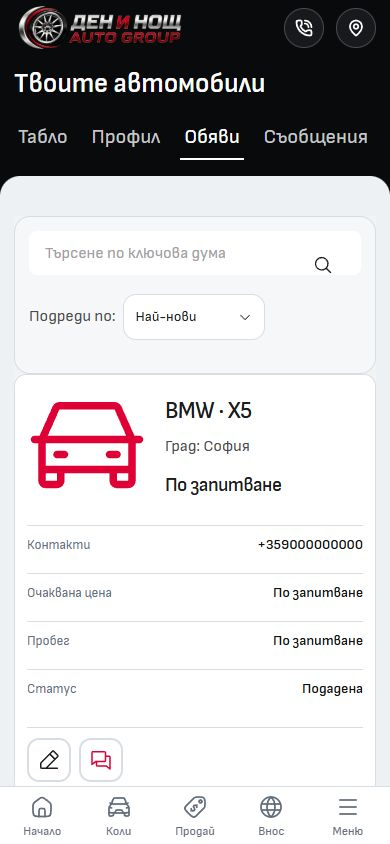
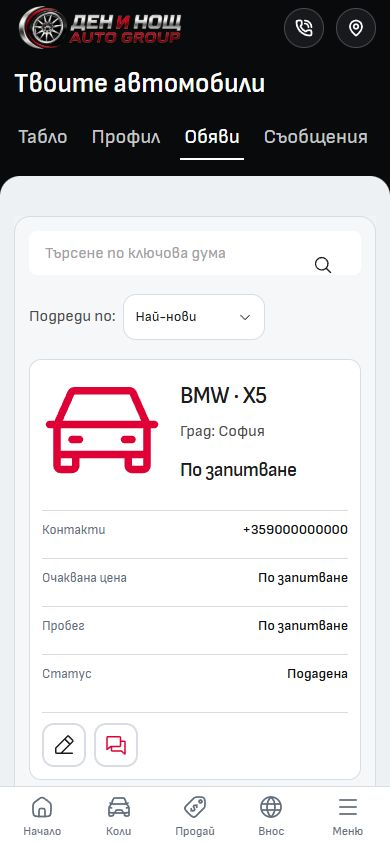
Keep Import account markup inside hydration boundaries

diff --git a/templates/import/src/lib/components/layout/AuxeroDashboardSlotShell.svelte b/templates/import/src/lib/components/layout/AuxeroDashboardSlotShell.svelte
@@ -52,7 +52,6 @@
 		{ href: '/account/messages', label: english ? 'Messages' : 'Съобщения' }
 	]);
 	const containerOpenTag = '<div class="dashboard-container">';
-	const contentOpenTag = '<div class="dashboard-content">';
 	const innerOpenTag = '<div class="dashboard-content--inner">';
 	const detailsOpenTag = '<div class="dashboard-content--details">';
 
@@ -61,12 +60,14 @@
 
 		if (containerStart < 0) return undefined;
 
-		const contentStart = beforeHtml.indexOf(contentOpenTag, containerStart);
-
-		if (contentStart < 0) return undefined;
+		const contentMatch = beforeHtml
+			.slice(containerStart)
+			.match(/<div class="(dashboard-content(?: [^"]*)?)">/);
+		if (!contentMatch || contentMatch.index === undefined) return undefined;
+		const contentStart = containerStart + contentMatch.index;
 
 		const innerStart = beforeHtml.indexOf(innerOpenTag, contentStart);
-		const headerStart = contentStart + contentOpenTag.length;
+		const headerStart = contentStart + contentMatch[0].length;
 		const headerEnd = innerStart < 0 ? beforeHtml.length : innerStart;
 		const detailsStart = innerStart < 0 ? -1 : beforeHtml.indexOf(detailsOpenTag, innerStart);
 		const innerPrefixStart = innerStart < 0 ? -1 : innerStart + innerOpenTag.length;
@@ -74,14 +75,22 @@
 		const detailsPrefixStart = detailsStart < 0 ? -1 : detailsStart + detailsOpenTag.length;
 		const innerPrefixHtml =
 			innerPrefixStart < 0 ? '' : beforeHtml.slice(innerPrefixStart, innerPrefixEnd);
+		const detailsPrefixHtml =
+			preserveDetailsPrefix && detailsPrefixStart >= 0 ? beforeHtml.slice(detailsPrefixStart) : '';
+		const detailsBox = detailsPrefixHtml.match(/<div class="([^"]*\bdashboard-box\b[^"]*)">/);
+		const detailsBoxStart = detailsBox?.index ?? -1;
+		const closingDivCount = detailsBox ? 5 : 4;
 
 		return {
-			afterHtml: afterHtml.replace(/^(?:\s*<\/div>){1,4}/, ''),
+			afterHtml: afterHtml.replace(new RegExp(`^(?:\\s*</div>){1,${closingDivCount}}`), ''),
 			beforeHtml: beforeHtml.slice(0, containerStart),
-			detailsPrefixHtml:
-				preserveDetailsPrefix && detailsPrefixStart >= 0
-					? beforeHtml.slice(detailsPrefixStart)
-					: '',
+			contentClass: contentMatch[1],
+			detailsPrefixHtml,
+			detailsBoxClass: detailsBox?.[1],
+			detailsBeforeBox: detailsPrefixHtml.slice(0, detailsBoxStart),
+			detailsBoxPrefix: detailsBox
+				? detailsPrefixHtml.slice(detailsBoxStart + detailsBox[0].length)
+				: '',
 			headerHtml: beforeHtml.slice(headerStart, headerEnd),
 			hasInnerPrefix: innerPrefixHtml.trim().length > 0,
 			innerPrefixHtml,
@@ -111,7 +120,7 @@
 			<div class="dashboard-container">
 				<!-- eslint-disable-next-line svelte/no-at-html-tags -->
 				{@html dashboardShell.sidebarHtml}
-				<div class="dashboard-content">
+				<div class={dashboardShell.contentClass}>
 					<!-- eslint-disable-next-line svelte/no-at-html-tags -->
 					{@html dashboardShell.headerHtml}
 					<div class="dashboard-content--inner">
@@ -122,9 +131,20 @@
 							<p class="h3 mb-30">{title}</p>
 						{/if}
 						<div class="dashboard-content--details" data-daynight-dashboard>
-							<!-- eslint-disable-next-line svelte/no-at-html-tags -->
-							{@html dashboardShell.detailsPrefixHtml}
-							{@render children()}
+							{#if dashboardShell.detailsBoxClass}
+								<!-- Keep the legacy card wrapper inside Svelte's hydration markers. -->
+								<!-- eslint-disable-next-line svelte/no-at-html-tags -->
+								{@html dashboardShell.detailsBeforeBox}
+								<div class={dashboardShell.detailsBoxClass}>
+									<!-- eslint-disable-next-line svelte/no-at-html-tags -->
+									{@html dashboardShell.detailsBoxPrefix}
+									{@render children()}
+								</div>
+							{:else}
+								<!-- eslint-disable-next-line svelte/no-at-html-tags -->
+								{@html dashboardShell.detailsPrefixHtml}
+								{@render children()}
+							{/if}
 						</div>
 					</div>
 				</div>
@@ -176,6 +196,7 @@
 		.account-mobile-shell :global(.dashboard-content > .header),
 		.account-mobile-shell :global(.dashboard-content--inner > .h3),
 		.account-mobile-shell :global(.dashboard-content--details > .h3),
+		.account-mobile-shell :global(.dashboard-content--details > .title-section > .h3),
 		.account-mobile-shell :global(.dashboard-menu-toggle-input),
 		.account-mobile-shell :global(.dashboard-menu-backdrop),
 		.account-mobile-shell :global(.dashboard-toggle-btn) {

diff --git a/templates/import/tests/account-hydration.e2e.ts b/templates/import/tests/account-hydration.e2e.ts
@@ -1,0 +1,31 @@
+import { expect, test } from '@playwright/test';
+import { promptVersion } from './locale-fixture';
+
+test('account pages hydrate without recovering from a markup mismatch', async ({ page }, info) => {
+	test.setTimeout(120000);
+	await page.context().addCookies(
+		['cars_prompt', 'cars_locale'].map((name) => ({
+			name,
+			value: name === 'cars_prompt' ? promptVersion : 'bg',
+			url: info.project.use.baseURL as string
+		}))
+	);
+	const warnings: string[] = [];
+	page.on('console', (message) => {
+		if (/hydration_(mismatch|failed)/.test(message.text())) warnings.push(message.text());
+	});
+	for (const route of [
+		'/account',
+		'/account/profile',
+		'/account/listings',
+		'/account/messages',
+		'/account/password',
+		'/account/listings/new'
+	]) {
+		await page.goto(route, { waitUntil: 'domcontentloaded' });
+		await expect(page.locator('html'), route).toHaveAttribute('data-daynight-hydrated', 'true', {
+			timeout: 30000
+		});
+		expect(warnings, route).toEqual([]);
+	}
+});

diff --git a/templates/import/docs/mobile-secondary-2026-10-01/QA.md b/templates/import/docs/mobile-secondary-2026-10-01/QA.md
@@ -10,30 +10,30 @@ The secondary pages now reuse the established Import mobile composition: the inl
 - Financing and import calculations show the live result before the fields on mobile. Their formulas, validation and detailed assumptions remain unchanged.
 - Policies use native mobile accordions, keep their full text and open linked sections. Desktop retains the expanded document layout.
 - Account pages share the mobile hero and account links instead of the desktop sidebar. Long vehicle identifiers wrap, card captions reuse the actual table headers, and actions have standard mobile control heights.
-- Six account routes previously disabled client rendering. Enabling hydration restores the shared Menu, Contact and mobile message controls. Messages retain their scrollable thread and visible composer at 320×568, and clearly identify local previews as demo messages with no delivery.
+- Six account routes previously disabled client rendering. Enabling hydration restores the shared Menu, Contact and mobile message controls. Legacy card wrappers now belong to Svelte rather than straddling raw HTML slots, and the car-submission shell preserves its additional `style-3` class. This removes hydration recovery without changing the intended layout. Messages retain their scrollable thread and visible composer at 320×568, and clearly identify local previews as demo messages with no delivery.
 - Navigation renders the existing Hugeicons SVG paths declaratively, making the icons available in server-rendered HTML and after navigation.
 - The profile map uses the configured Sofia address instead of the donor map location. Vite ignores audit documentation/runtime folders, preventing Windows screenshot file locks from crashing the live preview.
 
 ## Verification
 
[2 lines of base64/hex data omitted]
 
-| Check                      | Result                                                                                          |
-| -------------------------- | ----------------------------------------------------------------------------------------------- |
-| Svelte/TypeScript          | Passed, zero errors and warnings                                                                |
-| Code lint                  | Passed; changed files also checked after final fixes                                            |
-| Changed-file formatting    | Passed                                                                                          |
-| Architecture               | Passed: 57 native route modules, 202 reachable modules, one Tailwind entry                      |
-| Image signatures           | Passed: 886 local images                                                                        |
-| Unit tests                 | 124 passed in 18 files                                                                          |
-| Production build           | Passed                                                                                          |
-| Browser tests              | 121 unique passed: 105 mobile-project cases and 16 desktop cases                                |
-| Project-specific skips     | Three desktop-only cases skipped in the mobile project; all three passed in the desktop project |
-| Full repository formatting | Fails on three preserved, unrelated audit artifacts listed below                                |
+| Check                      | Result                                                                                 |
+| -------------------------- | -------------------------------------------------------------------------------------- |
+| Svelte/TypeScript          | Passed, zero errors and warnings                                                       |
+| Code lint                  | Passed; changed files also checked after final fixes                                   |
+| Changed-file formatting    | Passed                                                                                 |
+| Architecture               | Passed: 57 native route modules, 202 reachable modules, one Tailwind entry             |
+| Image signatures           | Passed: 886 local images                                                               |
+| Unit tests                 | 124 passed in 18 files                                                                 |
+| Production build           | Passed                                                                                 |
+| Browser tests              | 123 unique passed: 106 mobile-project cases and 17 desktop cases                       |
+| Project-specific skips     | Three desktop-only cases skipped in mobile; seven mobile-only cases skipped in desktop |
+| Full repository formatting | Fails on three preserved, unrelated audit artifacts listed below                       |
 
 Browser coverage includes Bulgarian and English secondary pages at 320px and 390px, account menus and focus restoration, comparison URL/reload persistence, picker accessibility, service search, calculations, policy deep links, typography, contact forms, main-page navigation and sheet regressions. Some localization cases intentionally exercise 1440px within the mobile project. Browser testing used Chromium with touch emulation, and the provided in-app Browser was used for visual inspection. This is local browser evidence; physical iOS/Safari and hosted acceptance were not performed.
 
-The first browser run found the picker history race and stale selectors that matched hidden desktop markup. The behavior was fixed, selectors were scoped to the visible output/heading or native summary, and the affected cases were rerun successfully. Test totals merge the final result for each unique case; they do not double-count retries.
+The first browser run found the picker history race and stale selectors that matched hidden desktop markup. The behavior was fixed, selectors were scoped to the visible output/heading or native summary, and the affected cases were rerun successfully. A final development-console check exposed legacy account wrappers crossing hydration boundaries. The added account hydration regression passes on both development and production previews, at mobile and desktop widths, across six routes. These development checks only load pages; they do not submit account forms. Test totals merge the final result for each unique case; they do not double-count retries.
 
 The aggregate formatting command still flags these unrelated files, which were preserved:
 
